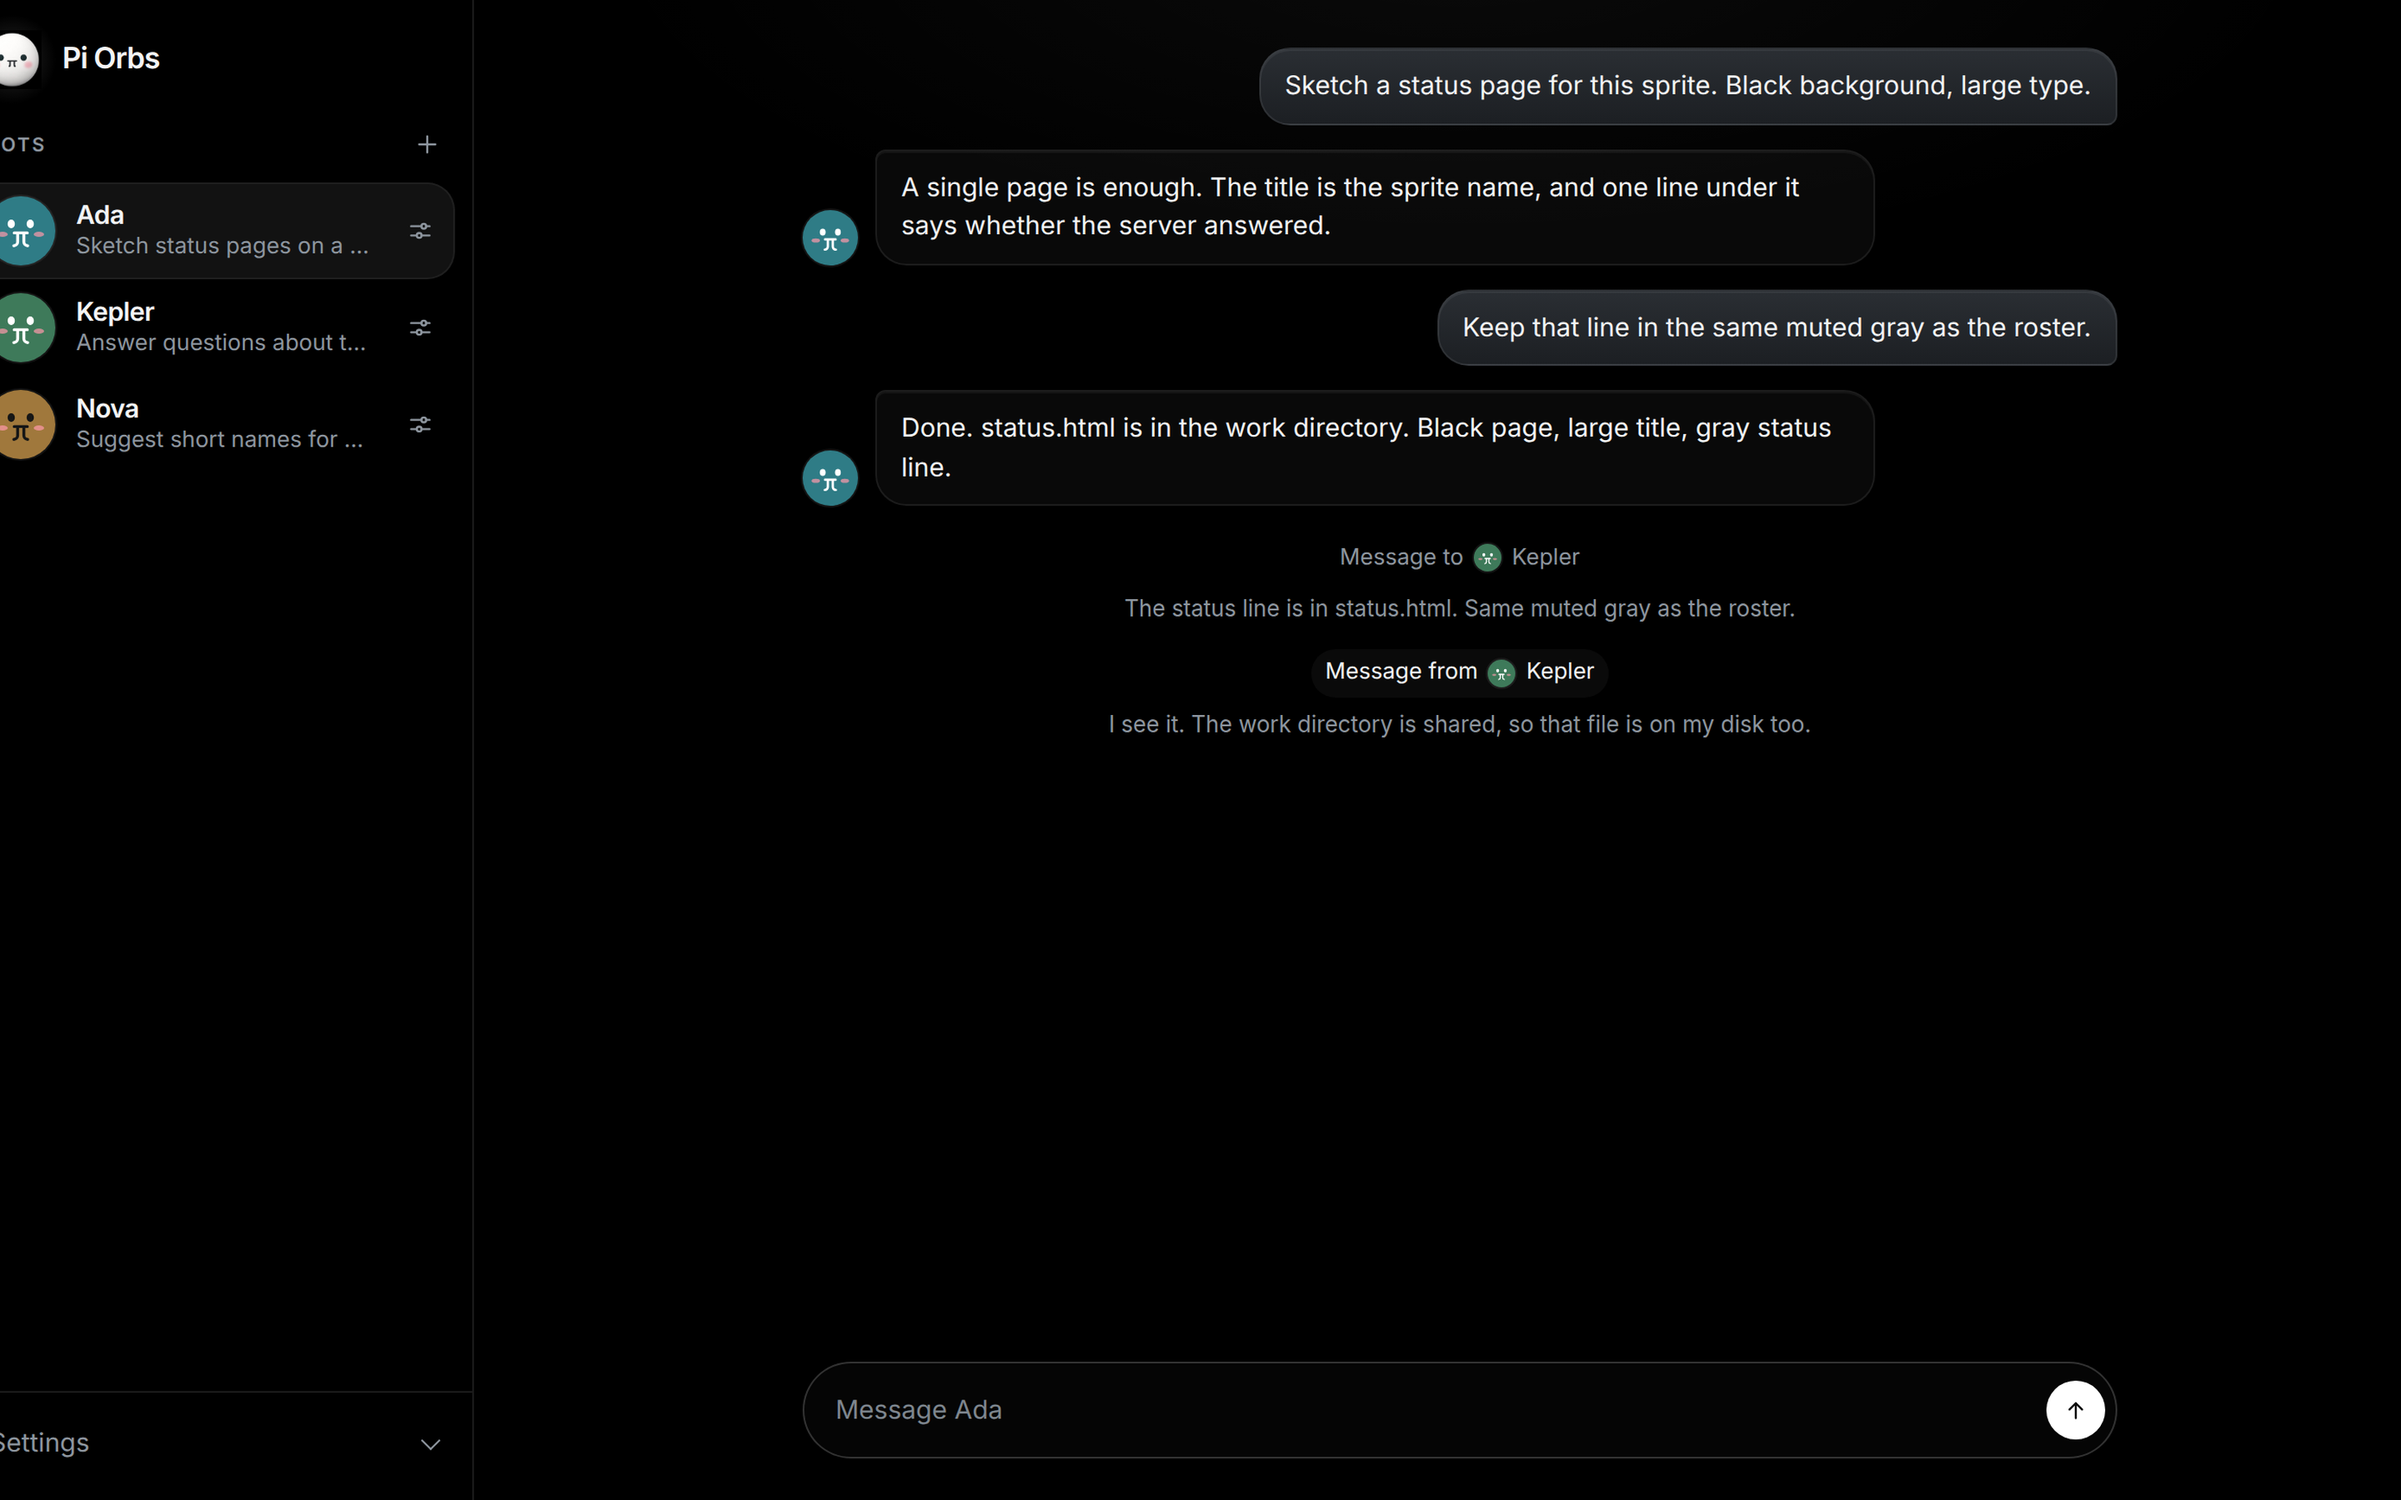
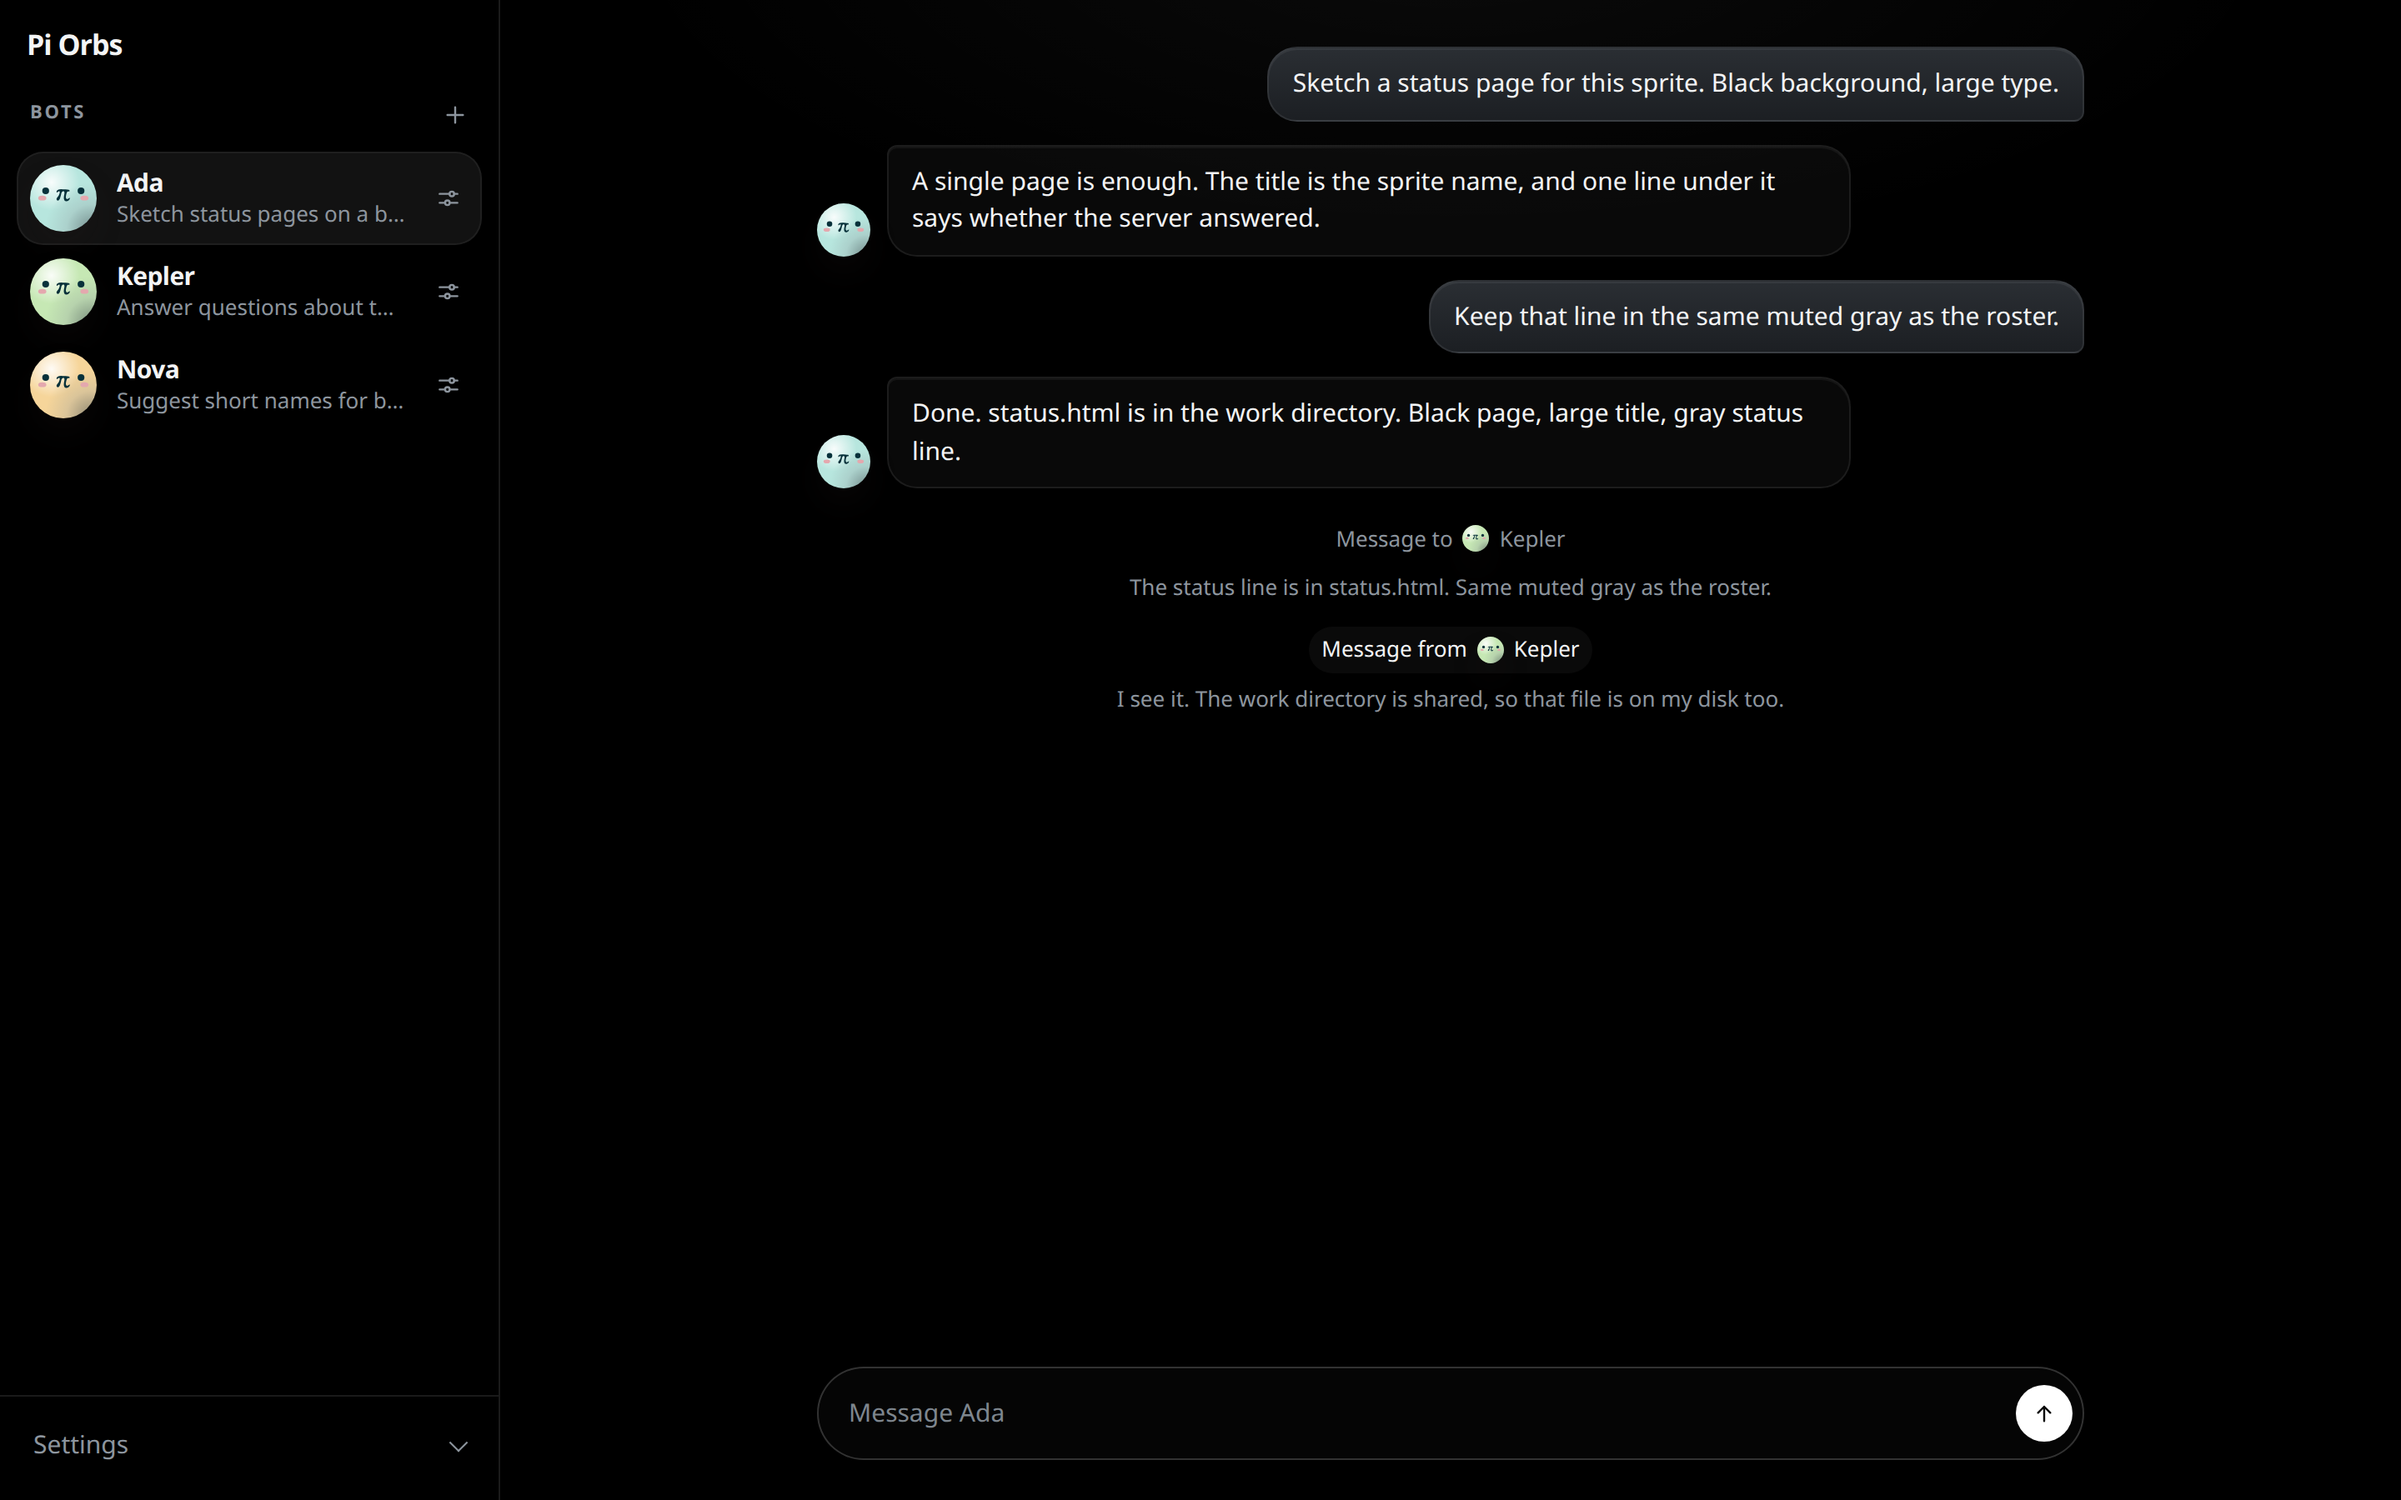
updates

diff --git a/index.html b/index.html
@@ -40,7 +40,7 @@
     <nav id="site-nav" class="nav-links" aria-label="Page">
       <a href="#product">What it is</a>
       <a href="#run">Run</a>
-      <a href="#page">The page</a>
+      <a href="#app">The app</a>
       <a class="ext" href="https://github.com/richardanaya/pi-orbs">GitHub</a>
     </nav>
   </div>
@@ -74,7 +74,7 @@
       <div class="facts">
         <article>
           <h3>A Pi thread per bot</h3>
-          <p>Each bot is its own Pi conversation. The first bot is selected on load. <strong>Add</strong> opens a dialog for its name, instruction, and glass orb.</p>
+          <p>Each bot is its own Pi conversation. The first bot is selected on load. <strong>Add</strong> opens a dialog for its name, instruction, and pastel orb.</p>
         </article>
         <article>
           <h3>One shared computer</h3>
@@ -101,20 +101,20 @@
         <p>Named bots then share that Sprite as their computer. Each bot keeps its own thread. They share the Sprite’s disk, including <code>/home/sprite/work</code>.</p>
         <p>Until a sprite is running, the page asks for a sprite name, a connector, and an API key, then <strong>Create and deploy</strong>. The connectors are xAI, OpenAI, Anthropic, and Custom. xAI is the default. The key stays in a Sprites connection, not in the sprite service environment.</p>
         <figure class="shot">
-          <img src="docs/local-setup.png" width="1440" height="900" alt="Setup form with the connector list open: xAI, OpenAI, Anthropic, and Custom">
-          <figcaption>Four connectors. xAI, OpenAI, Anthropic, and Custom. Every bot on that sprite uses the one model.</figcaption>
+          <img src="docs/local-setup.png" width="2880" height="2400" alt="Setup form: sprite name atlas, connector xAI, model grok-4.7, and optional voice and cron-job.org keys">
+          <figcaption>Sprite name, connector, model, and optional voice and cron-job.org keys. The connectors are xAI, OpenAI, Anthropic, and Custom. Every bot on that sprite uses the one model.</figcaption>
         </figure>
       </div>
     </div>
   </section>
 
-  <section id="page">
+  <section id="app">
     <div class="wrap">
-      <h2>The page</h2>
+      <h2>The app</h2>
       <p class="section-lead">A roster of named bots and the thread you have open. A steer from another bot is a line in that thread. Settings can download every conversation as a zip.</p>
       <figure class="shot shot-wide">
-        <img src="docs/local-roster.png" width="2880" height="1800" alt="Roster of Ada, Kepler, and Nova with flat pi faces, a plus to add a bot, and Ada’s thread">
-        <figcaption>Ada, Kepler, and Nova. Flat π faces, and Add is the plus on the right. Ada’s thread is open.</figcaption>
+        <img src="docs/local-roster.png" width="2880" height="1800" alt="Roster of Ada, Kepler, and Nova with pastel pi faces, a plus to add a bot, and Ada’s thread">
+        <figcaption>Ada, Kepler, and Nova. Pastel π faces, and Add is the plus on the right. Ada’s thread is open.</figcaption>
       </figure>
       <figure class="shot shot-wide">
         <img src="docs/local-thread.png" width="2880" height="1800" alt="Kepler’s thread with a steer from Ada between the messages">

diff --git a/README.md b/README.md
@@ -42,15 +42,15 @@ Open http://127.0.0.1:8787.
 
 Until a sprite is running, the page is the setup form: a sprite name, a connector, an API key, a base URL, a model, and **Create and deploy**. The connectors are xAI, OpenAI, Anthropic, and Custom. xAI is the default. That creates the Sprite, makes its URL public, stores the key in a Sprites connection, and installs the server. The connection id, the sprite URL, and an API secret are written to `~/.pi-orbs/state.json`. The API key is not copied into the sprite service environment. Voice is optional on that form: Grok or OpenAI, plus a realtime key. The voice key stays in the state file too, and the page does not receive it. A cron-job.org API key is optional on the same form. The page does not receive that key either.
 
-![Setup form with the connector list open: xAI, OpenAI, Anthropic, and Custom](docs/local-setup.png)
+![Setup form: sprite name, connector xAI, model grok-4.7, and optional voice and cron-job.org keys](docs/local-setup.png)
 
 ## The interface
 
 After a sprite is up, the page is a roster and a thread. The first bot is selected on load.
 
-![Roster of Ada, Kepler, and Nova with flat pi faces beside Ada’s thread](docs/local-roster.png)
+![Roster of Ada, Kepler, and Nova with pastel pi faces beside Ada’s thread](docs/local-roster.png)
 
-Ada, Kepler, and Nova. Flat π faces, and **Add** is the plus on the right. The selected bot’s thread is open beside the roster.
+Ada, Kepler, and Nova. Pastel π faces, and **Add** is the plus on the right. The selected bot’s thread is open beside the roster.
 
 ![Kepler’s thread with a steer from Ada between the messages](docs/local-thread.png)
 
@@ -60,7 +60,7 @@ Open the line to read who sent it and the message. The roster face pulses while 
 
 ![Ada’s thread with steers to and from Kepler opened](docs/local-peers.png)
 
-Choose **Add** (the plus) to name a bot, write its instruction, and pick a glass orb. The same dialog edits a bot from the roster, and can delete it. Each bot is its own Pi conversation. They share `/home/sprite/work` and the one model from setup. Send a message in the bar at the bottom. The thread refreshes every few seconds.
+Choose **Add** (the plus) to name a bot, write its instruction, and pick a pastel orb. The same dialog edits a bot from the roster, and can delete it. Each bot is its own Pi conversation. They share `/home/sprite/work` and the one model from setup. Send a message in the bar at the bottom. The thread refreshes every few seconds.
 
 ![Ada’s thread after a message is sent](docs/local-reply.png)
 

diff --git a/CHANGELOG.md b/CHANGELOG.md
@@ -7,6 +7,10 @@ and this project adheres to [Semantic Versioning](https://semver.org/spec/v2.0.0
 
 ## [Unreleased]
 
+### Changed
+
+- Homepage and README screenshots. Setup shows voice and the cron-job.org key. The roster, thread, steer, and reply shots use the pastel π faces. `docs/local-demo.gif` matches that page.
+
 ### Added
 
 - 0.3 release / product video. Remotion project in `website/remotion/` renders a 1920×1080 cut to `website/pi-orbs-0.3-release.mp4`: live `<pi-face>`, the existing site hero footage, 0.3 feature captions, and `npx pi-orbs`.
